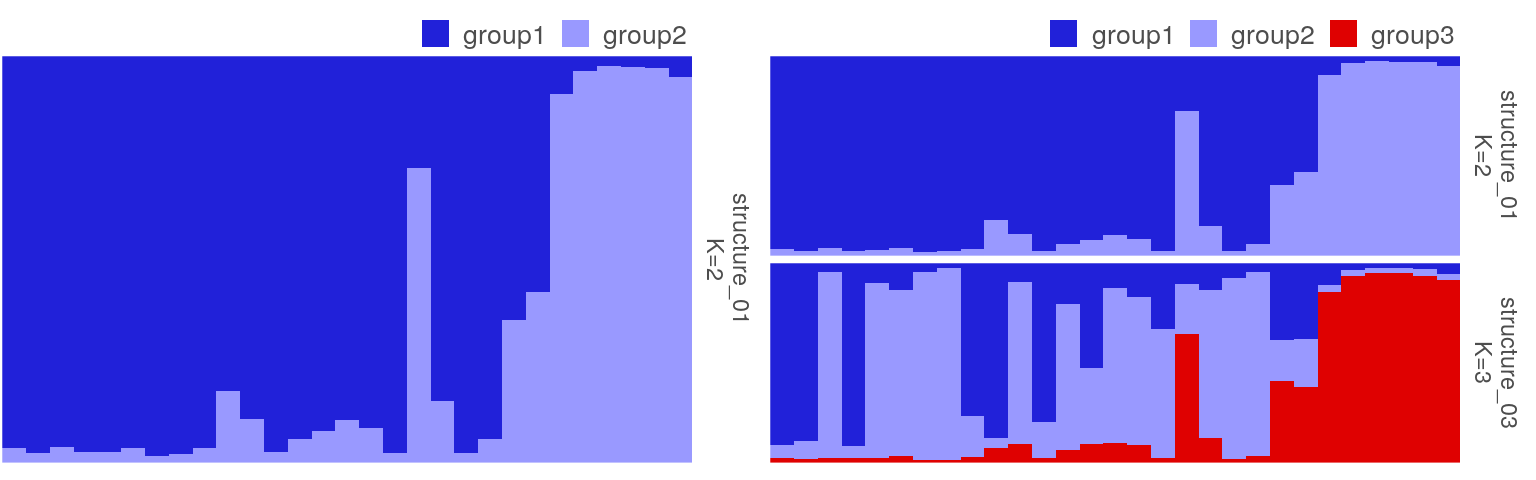
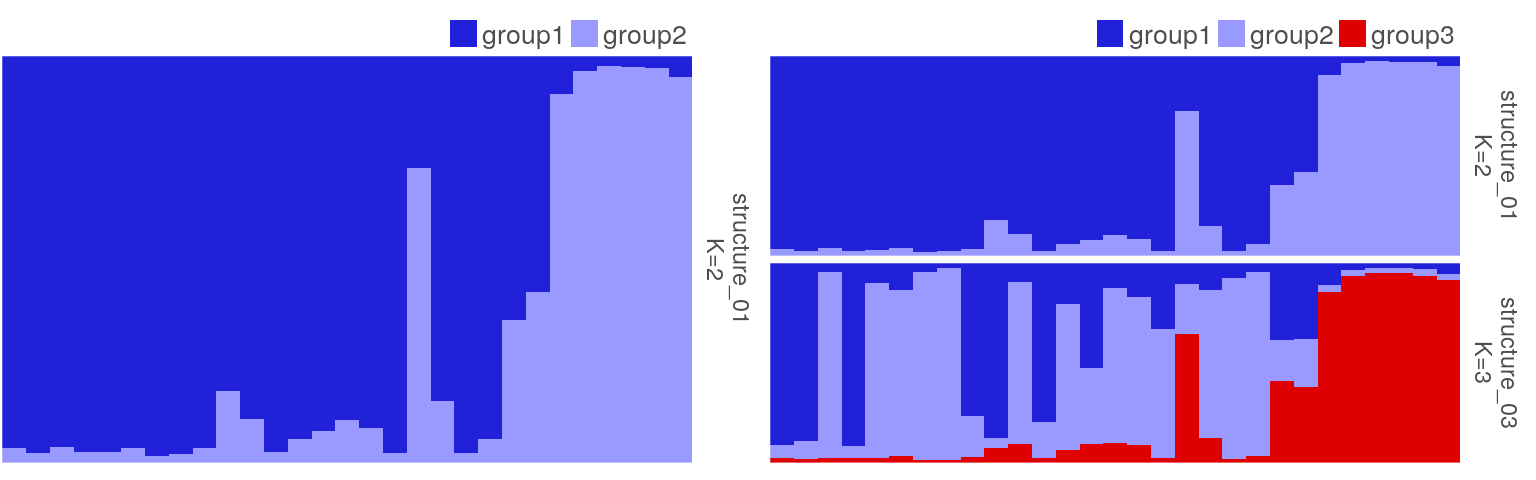
Added legendspacing & legendrow

Changed region(s): [[0.6562, 0.0312, 0.9062, 0.125], [0.25, 0.0312, 0.4062, 0.125]]

diff --git a/reference/plotQ.html b/reference/plotQ.html
@@ -171,14 +171,14 @@
   <span class='kw'>divgrp</span> <span class='kw'>=</span> <span class='fl'>NA</span>, <span class='kw'>divcol</span> <span class='kw'>=</span> <span class='st'>"white"</span>, <span class='kw'>divtype</span> <span class='kw'>=</span> <span class='st'>"21"</span>, <span class='kw'>divsize</span> <span class='kw'>=</span> <span class='fl'>0.25</span>,
   <span class='kw'>divalpha</span> <span class='kw'>=</span> <span class='fl'>1</span>, <span class='kw'>showlegend</span> <span class='kw'>=</span> <span class='fl'>FALSE</span>, <span class='kw'>legendlab</span> <span class='kw'>=</span> <span class='fl'>NA</span>,
   <span class='kw'>legendpos</span> <span class='kw'>=</span> <span class='st'>"right"</span>, <span class='kw'>legendkeysize</span> <span class='kw'>=</span> <span class='fl'>4</span>, <span class='kw'>legendtextsize</span> <span class='kw'>=</span> <span class='fl'>3</span>,
-  <span class='kw'>legendmargin</span> <span class='kw'>=</span> <span class='fu'><a href='https://www.rdocumentation.org/packages/base/topics/c'>c</a></span>(<span class='fl'>0.5</span>, <span class='fl'>0.5</span>, <span class='fl'>0.5</span>, <span class='fl'>0</span>), <span class='kw'>barsize</span> <span class='kw'>=</span> <span class='fl'>1</span>, <span class='kw'>barbordersize</span> <span class='kw'>=</span> <span class='fl'>0</span>,
-  <span class='kw'>barbordercolour</span> <span class='kw'>=</span> <span class='fl'>NA</span>, <span class='kw'>showyaxis</span> <span class='kw'>=</span> <span class='fl'>FALSE</span>, <span class='kw'>showticks</span> <span class='kw'>=</span> <span class='fl'>FALSE</span>,
-  <span class='kw'>ticksize</span> <span class='kw'>=</span> <span class='fl'>0.1</span>, <span class='kw'>ticklength</span> <span class='kw'>=</span> <span class='fl'>0.03</span>, <span class='kw'>outputfilename</span> <span class='kw'>=</span> <span class='fl'>NA</span>,
-  <span class='kw'>imgtype</span> <span class='kw'>=</span> <span class='st'>"png"</span>, <span class='kw'>height</span> <span class='kw'>=</span> <span class='fl'>NA</span>, <span class='kw'>width</span> <span class='kw'>=</span> <span class='fl'>NA</span>, <span class='kw'>dpi</span> <span class='kw'>=</span> <span class='fl'>300</span>,
-  <span class='kw'>units</span> <span class='kw'>=</span> <span class='st'>"cm"</span>, <span class='kw'>theme</span> <span class='kw'>=</span> <span class='st'>"theme_grey"</span>, <span class='kw'>basesize</span> <span class='kw'>=</span> <span class='fl'>5</span>, <span class='kw'>font</span> <span class='kw'>=</span> <span class='st'>""</span>,
-  <span class='kw'>na.rm</span> <span class='kw'>=</span> <span class='fl'>TRUE</span>, <span class='kw'>quiet</span> <span class='kw'>=</span> <span class='fl'>FALSE</span>, <span class='kw'>panelratio</span> <span class='kw'>=</span> <span class='fu'><a href='https://www.rdocumentation.org/packages/base/topics/c'>c</a></span>(<span class='fl'>3</span>, <span class='fl'>1</span>),
-  <span class='kw'>exportplot</span> <span class='kw'>=</span> <span class='fl'>TRUE</span>, <span class='kw'>returnplot</span> <span class='kw'>=</span> <span class='fl'>FALSE</span>, <span class='kw'>returndata</span> <span class='kw'>=</span> <span class='fl'>FALSE</span>,
-  <span class='kw'>exportpath</span> <span class='kw'>=</span> <span class='kw'>NULL</span>)</pre>
+  <span class='kw'>legendspacing</span> <span class='kw'>=</span> <span class='fl'>2</span>, <span class='kw'>legendrow</span> <span class='kw'>=</span> <span class='kw'>NULL</span>, <span class='kw'>legendmargin</span> <span class='kw'>=</span> <span class='fu'><a href='https://www.rdocumentation.org/packages/base/topics/c'>c</a></span>(<span class='fl'>0.5</span>, <span class='fl'>0.5</span>,
+  <span class='fl'>0.5</span>, <span class='fl'>0</span>), <span class='kw'>barsize</span> <span class='kw'>=</span> <span class='fl'>1</span>, <span class='kw'>barbordersize</span> <span class='kw'>=</span> <span class='fl'>0</span>, <span class='kw'>barbordercolour</span> <span class='kw'>=</span> <span class='fl'>NA</span>,
+  <span class='kw'>showyaxis</span> <span class='kw'>=</span> <span class='fl'>FALSE</span>, <span class='kw'>showticks</span> <span class='kw'>=</span> <span class='fl'>FALSE</span>, <span class='kw'>ticksize</span> <span class='kw'>=</span> <span class='fl'>0.1</span>,
+  <span class='kw'>ticklength</span> <span class='kw'>=</span> <span class='fl'>0.03</span>, <span class='kw'>outputfilename</span> <span class='kw'>=</span> <span class='fl'>NA</span>, <span class='kw'>imgtype</span> <span class='kw'>=</span> <span class='st'>"png"</span>,
+  <span class='kw'>height</span> <span class='kw'>=</span> <span class='fl'>NA</span>, <span class='kw'>width</span> <span class='kw'>=</span> <span class='fl'>NA</span>, <span class='kw'>dpi</span> <span class='kw'>=</span> <span class='fl'>300</span>, <span class='kw'>units</span> <span class='kw'>=</span> <span class='st'>"cm"</span>,
+  <span class='kw'>theme</span> <span class='kw'>=</span> <span class='st'>"theme_grey"</span>, <span class='kw'>basesize</span> <span class='kw'>=</span> <span class='fl'>5</span>, <span class='kw'>font</span> <span class='kw'>=</span> <span class='st'>""</span>, <span class='kw'>na.rm</span> <span class='kw'>=</span> <span class='fl'>TRUE</span>,
+  <span class='kw'>quiet</span> <span class='kw'>=</span> <span class='fl'>FALSE</span>, <span class='kw'>panelratio</span> <span class='kw'>=</span> <span class='fu'><a href='https://www.rdocumentation.org/packages/base/topics/c'>c</a></span>(<span class='fl'>3</span>, <span class='fl'>1</span>), <span class='kw'>exportplot</span> <span class='kw'>=</span> <span class='fl'>TRUE</span>,
+  <span class='kw'>returnplot</span> <span class='kw'>=</span> <span class='fl'>FALSE</span>, <span class='kw'>returndata</span> <span class='kw'>=</span> <span class='fl'>FALSE</span>, <span class='kw'>exportpath</span> <span class='kw'>=</span> <span class='kw'>NULL</span>)</pre>
     
     <h2 class="hasAnchor" id="arguments"><a class="anchor" href="#arguments"></a>Arguments</h2>
     <table class="ref-arguments">
@@ -600,6 +600,14 @@ to 4.</p></td>
 to 3.</p></td>
     </tr>
     <tr>
+      <th>legendspacing</th>
+      <td><p>Spacing between legend items.</p></td>
+    </tr>
+    <tr>
+      <th>legendrow</th>
+      <td><p>Number of rows of legend.</p></td>
+    </tr>
+    <tr>
       <th>legendmargin</th>
       <td><p>A numeric vector of length 4 indicating top, right, 
 bottom and left margins of the legend.</p></td>
@@ -842,26 +850,26 @@ order in which the group labels were provided.</p>
 <span class='fu'>plotQ</span>(<span class='kw'>qlist</span><span class='kw'>=</span><span class='no'>slist</span>[<span class='fl'>1</span>:<span class='fl'>2</span>])</div><div class='output co'>#&gt; Drawing plot ...</div><div class='output co'>#&gt; structure_01.png exported.
 #&gt; Drawing plot ...</div><div class='output co'>#&gt; structure_02.png exported.</div><div class='input'>
 <span class='co'># plot a joined figure with multiple plots</span>
-<span class='fu'>plotQ</span>(<span class='kw'>qlist</span><span class='kw'>=</span><span class='no'>slist</span>[<span class='fl'>1</span>:<span class='fl'>2</span>],<span class='kw'>imgoutput</span><span class='kw'>=</span><span class='st'>"join"</span>)</div><div class='output co'>#&gt; Drawing plot ...</div><div class='output co'>#&gt; Joined2Files-20190811024347.png exported.</div><div class='input'>
+<span class='fu'>plotQ</span>(<span class='kw'>qlist</span><span class='kw'>=</span><span class='no'>slist</span>[<span class='fl'>1</span>:<span class='fl'>2</span>],<span class='kw'>imgoutput</span><span class='kw'>=</span><span class='st'>"join"</span>)</div><div class='output co'>#&gt; Drawing plot ...</div><div class='output co'>#&gt; Joined2Files-20190814222445.png exported.</div><div class='input'>
 <span class='co'># sort individuals</span>
 <span class='fu'>plotQ</span>(<span class='kw'>qlist</span><span class='kw'>=</span><span class='no'>slist</span>[<span class='fu'><a href='https://www.rdocumentation.org/packages/base/topics/c'>c</a></span>(<span class='fl'>1</span>,<span class='fl'>3</span>)],<span class='kw'>sortind</span><span class='kw'>=</span><span class='st'>"all"</span>)</div><div class='output co'>#&gt; Drawing plot ...</div><div class='output co'>#&gt; structure_01.png exported.
 #&gt; Drawing plot ...</div><div class='output co'>#&gt; structure_03.png exported.</div><div class='input'><span class='fu'>plotQ</span>(<span class='kw'>qlist</span><span class='kw'>=</span><span class='no'>slist</span>[<span class='fu'><a href='https://www.rdocumentation.org/packages/base/topics/c'>c</a></span>(<span class='fl'>1</span>,<span class='fl'>3</span>)],<span class='kw'>sortind</span><span class='kw'>=</span><span class='st'>"Cluster1"</span>)</div><div class='output co'>#&gt; Drawing plot ...</div><div class='output co'>#&gt; structure_01.png exported.
 #&gt; Drawing plot ...</div><div class='output co'>#&gt; structure_03.png exported.</div><div class='input'><span class='fu'>plotQ</span>(<span class='kw'>qlist</span><span class='kw'>=</span><span class='no'>slist</span>[<span class='fu'><a href='https://www.rdocumentation.org/packages/base/topics/c'>c</a></span>(<span class='fl'>1</span>,<span class='fl'>3</span>)],<span class='kw'>sortind</span><span class='kw'>=</span><span class='st'>"label"</span>)</div><div class='output co'>#&gt; Drawing plot ...</div><div class='output co'>#&gt; structure_01.png exported.
-#&gt; Drawing plot ...</div><div class='output co'>#&gt; structure_03.png exported.</div><div class='input'><span class='fu'>plotQ</span>(<span class='kw'>qlist</span><span class='kw'>=</span><span class='no'>slist</span>[<span class='fu'><a href='https://www.rdocumentation.org/packages/base/topics/c'>c</a></span>(<span class='fl'>1</span>,<span class='fl'>3</span>)],<span class='kw'>sortind</span><span class='kw'>=</span><span class='st'>"all"</span>,<span class='kw'>imgoutput</span><span class='kw'>=</span><span class='st'>"join"</span>,<span class='kw'>sharedindlab</span><span class='kw'>=</span><span class='fl'>FALSE</span>)</div><div class='output co'>#&gt; Drawing plot ...</div><div class='output co'>#&gt; Joined2Files-20190811024348.png exported.</div><div class='input'>
+#&gt; Drawing plot ...</div><div class='output co'>#&gt; structure_03.png exported.</div><div class='input'><span class='fu'>plotQ</span>(<span class='kw'>qlist</span><span class='kw'>=</span><span class='no'>slist</span>[<span class='fu'><a href='https://www.rdocumentation.org/packages/base/topics/c'>c</a></span>(<span class='fl'>1</span>,<span class='fl'>3</span>)],<span class='kw'>sortind</span><span class='kw'>=</span><span class='st'>"all"</span>,<span class='kw'>imgoutput</span><span class='kw'>=</span><span class='st'>"join"</span>,<span class='kw'>sharedindlab</span><span class='kw'>=</span><span class='fl'>FALSE</span>)</div><div class='output co'>#&gt; Drawing plot ...</div><div class='output co'>#&gt; Joined2Files-20190814222446.png exported.</div><div class='input'>
 <span class='co'># read group labels</span>
 <span class='no'>md</span> <span class='kw'>&lt;-</span> <span class='fu'><a href='https://www.rdocumentation.org/packages/utils/topics/read.table'>read.delim</a></span>(<span class='fu'><a href='https://www.rdocumentation.org/packages/base/topics/system.file'>system.file</a></span>(<span class='st'>"files/metadata.txt"</span>, <span class='kw'>package</span><span class='kw'>=</span><span class='st'>"pophelper"</span>),
 <span class='kw'>header</span><span class='kw'>=</span><span class='fl'>TRUE</span>,<span class='kw'>stringsAsFactors</span><span class='kw'>=</span><span class='fl'>FALSE</span>)
 
 <span class='co'># plot with one group label set</span>
-<span class='fu'>plotQ</span>(<span class='kw'>qlist</span><span class='kw'>=</span><span class='no'>slist</span>[<span class='fl'>1</span>],<span class='kw'>grplab</span><span class='kw'>=</span><span class='no'>md</span>[,<span class='fl'>2</span>,<span class='kw'>drop</span><span class='kw'>=</span><span class='fl'>FALSE</span>])</div><div class='output co'>#&gt; Drawing plot ...</div><div class='output co'>#&gt; structure_01.png exported.</div><div class='input'><span class='fu'>plotQ</span>(<span class='kw'>qlist</span><span class='kw'>=</span><span class='no'>slist</span>[<span class='fl'>1</span>:<span class='fl'>2</span>],<span class='kw'>grplab</span><span class='kw'>=</span><span class='no'>md</span>[,<span class='fl'>2</span>,<span class='kw'>drop</span><span class='kw'>=</span><span class='fl'>FALSE</span>],<span class='kw'>imgoutput</span><span class='kw'>=</span><span class='st'>"join"</span>)</div><div class='output co'>#&gt; Drawing plot ...</div><div class='output co'>#&gt; Joined2Files-20190811024348.png exported.</div><div class='input'>
+<span class='fu'>plotQ</span>(<span class='kw'>qlist</span><span class='kw'>=</span><span class='no'>slist</span>[<span class='fl'>1</span>],<span class='kw'>grplab</span><span class='kw'>=</span><span class='no'>md</span>[,<span class='fl'>2</span>,<span class='kw'>drop</span><span class='kw'>=</span><span class='fl'>FALSE</span>])</div><div class='output co'>#&gt; Drawing plot ...</div><div class='output co'>#&gt; structure_01.png exported.</div><div class='input'><span class='fu'>plotQ</span>(<span class='kw'>qlist</span><span class='kw'>=</span><span class='no'>slist</span>[<span class='fl'>1</span>:<span class='fl'>2</span>],<span class='kw'>grplab</span><span class='kw'>=</span><span class='no'>md</span>[,<span class='fl'>2</span>,<span class='kw'>drop</span><span class='kw'>=</span><span class='fl'>FALSE</span>],<span class='kw'>imgoutput</span><span class='kw'>=</span><span class='st'>"join"</span>)</div><div class='output co'>#&gt; Drawing plot ...</div><div class='output co'>#&gt; Joined2Files-20190814222447.png exported.</div><div class='input'>
 <span class='co'># sort within groups</span>
 <span class='fu'>plotQ</span>(<span class='kw'>qlist</span><span class='kw'>=</span><span class='no'>slist</span>[<span class='fl'>1</span>:<span class='fl'>2</span>],<span class='kw'>grplab</span><span class='kw'>=</span><span class='no'>md</span>[,<span class='fl'>2</span>,<span class='kw'>drop</span><span class='kw'>=</span><span class='fl'>FALSE</span>],<span class='kw'>imgoutput</span><span class='kw'>=</span><span class='st'>"join"</span>,<span class='kw'>sortind</span><span class='kw'>=</span><span class='st'>"all"</span>,
-<span class='kw'>sharedindlab</span><span class='kw'>=</span><span class='fl'>FALSE</span>)</div><div class='output co'>#&gt; Drawing plot ...</div><div class='output co'>#&gt; Joined2Files-20190811024348.png exported.</div><div class='input'><span class='fu'>plotQ</span>(<span class='kw'>qlist</span><span class='kw'>=</span><span class='no'>slist</span>[<span class='fl'>1</span>:<span class='fl'>2</span>],<span class='kw'>grplab</span><span class='kw'>=</span><span class='no'>md</span>[,<span class='fl'>2</span>,<span class='kw'>drop</span><span class='kw'>=</span><span class='fl'>FALSE</span>],<span class='kw'>imgoutput</span><span class='kw'>=</span><span class='st'>"join"</span>,
-<span class='kw'>sortind</span><span class='kw'>=</span><span class='st'>"Cluster1"</span>,<span class='kw'>sharedindlab</span><span class='kw'>=</span><span class='fl'>FALSE</span>)</div><div class='output co'>#&gt; Drawing plot ...</div><div class='output co'>#&gt; Joined2Files-20190811024349.png exported.</div><div class='input'><span class='fu'>plotQ</span>(<span class='kw'>qlist</span><span class='kw'>=</span><span class='no'>slist</span>[<span class='fl'>1</span>:<span class='fl'>2</span>],<span class='kw'>grplab</span><span class='kw'>=</span><span class='no'>md</span>[,<span class='fl'>2</span>,<span class='kw'>drop</span><span class='kw'>=</span><span class='fl'>FALSE</span>],<span class='kw'>imgoutput</span><span class='kw'>=</span><span class='st'>"join"</span>,<span class='kw'>sortind</span><span class='kw'>=</span><span class='st'>"label"</span>)</div><div class='output co'>#&gt; Drawing plot ...</div><div class='output co'>#&gt; Joined2Files-20190811024349.png exported.</div><div class='input'>
+<span class='kw'>sharedindlab</span><span class='kw'>=</span><span class='fl'>FALSE</span>)</div><div class='output co'>#&gt; Drawing plot ...</div><div class='output co'>#&gt; Joined2Files-20190814222447.png exported.</div><div class='input'><span class='fu'>plotQ</span>(<span class='kw'>qlist</span><span class='kw'>=</span><span class='no'>slist</span>[<span class='fl'>1</span>:<span class='fl'>2</span>],<span class='kw'>grplab</span><span class='kw'>=</span><span class='no'>md</span>[,<span class='fl'>2</span>,<span class='kw'>drop</span><span class='kw'>=</span><span class='fl'>FALSE</span>],<span class='kw'>imgoutput</span><span class='kw'>=</span><span class='st'>"join"</span>,
+<span class='kw'>sortind</span><span class='kw'>=</span><span class='st'>"Cluster1"</span>,<span class='kw'>sharedindlab</span><span class='kw'>=</span><span class='fl'>FALSE</span>)</div><div class='output co'>#&gt; Drawing plot ...</div><div class='output co'>#&gt; Joined2Files-20190814222447.png exported.</div><div class='input'><span class='fu'>plotQ</span>(<span class='kw'>qlist</span><span class='kw'>=</span><span class='no'>slist</span>[<span class='fl'>1</span>:<span class='fl'>2</span>],<span class='kw'>grplab</span><span class='kw'>=</span><span class='no'>md</span>[,<span class='fl'>2</span>,<span class='kw'>drop</span><span class='kw'>=</span><span class='fl'>FALSE</span>],<span class='kw'>imgoutput</span><span class='kw'>=</span><span class='st'>"join"</span>,<span class='kw'>sortind</span><span class='kw'>=</span><span class='st'>"label"</span>)</div><div class='output co'>#&gt; Drawing plot ...</div><div class='output co'>#&gt; Joined2Files-20190814222448.png exported.</div><div class='input'>
 <span class='co'># reorder groups</span>
 <span class='fu'>plotQ</span>(<span class='kw'>qlist</span><span class='kw'>=</span><span class='no'>slist</span>[<span class='fl'>1</span>],<span class='kw'>grplab</span><span class='kw'>=</span><span class='no'>md</span>[,<span class='fl'>2</span>,<span class='kw'>drop</span><span class='kw'>=</span><span class='fl'>FALSE</span>],<span class='kw'>subsetgrp</span><span class='kw'>=</span><span class='fu'><a href='https://www.rdocumentation.org/packages/base/topics/c'>c</a></span>(<span class='st'>"CatB"</span>,<span class='st'>"CatA"</span>))</div><div class='output co'>#&gt; Drawing plot ...</div><div class='output co'>#&gt; structure_01.png exported.</div><div class='input'>
 <span class='co'># multiple group label sets and ordergrp</span>
-<span class='fu'>plotQ</span>(<span class='kw'>qlist</span><span class='kw'>=</span><span class='no'>slist</span>[<span class='fl'>1</span>],<span class='kw'>grplab</span><span class='kw'>=</span><span class='no'>md</span>,<span class='kw'>ordergrp</span><span class='kw'>=</span><span class='fl'>TRUE</span>)</div><div class='output co'>#&gt; Drawing plot ...</div><div class='output co'>#&gt; structure_01.png exported.</div><div class='input'><span class='fu'>plotQ</span>(<span class='kw'>qlist</span><span class='kw'>=</span><span class='no'>slist</span>[<span class='fl'>1</span>:<span class='fl'>2</span>],<span class='kw'>grplab</span><span class='kw'>=</span><span class='no'>md</span>,<span class='kw'>ordergrp</span><span class='kw'>=</span><span class='fl'>TRUE</span>,<span class='kw'>imgoutput</span><span class='kw'>=</span><span class='st'>"join"</span>)</div><div class='output co'>#&gt; Drawing plot ...</div><div class='output co'>#&gt; Joined2Files-20190811024350.png exported.</div><div class='input'>
+<span class='fu'>plotQ</span>(<span class='kw'>qlist</span><span class='kw'>=</span><span class='no'>slist</span>[<span class='fl'>1</span>],<span class='kw'>grplab</span><span class='kw'>=</span><span class='no'>md</span>,<span class='kw'>ordergrp</span><span class='kw'>=</span><span class='fl'>TRUE</span>)</div><div class='output co'>#&gt; Drawing plot ...</div><div class='output co'>#&gt; structure_01.png exported.</div><div class='input'><span class='fu'>plotQ</span>(<span class='kw'>qlist</span><span class='kw'>=</span><span class='no'>slist</span>[<span class='fl'>1</span>:<span class='fl'>2</span>],<span class='kw'>grplab</span><span class='kw'>=</span><span class='no'>md</span>,<span class='kw'>ordergrp</span><span class='kw'>=</span><span class='fl'>TRUE</span>,<span class='kw'>imgoutput</span><span class='kw'>=</span><span class='st'>"join"</span>)</div><div class='output co'>#&gt; Drawing plot ...</div><div class='output co'>#&gt; Joined2Files-20190814222449.png exported.</div><div class='input'>
 <span class='co'># sort in second label group set cat</span>
 <span class='fu'>plotQ</span>(<span class='kw'>qlist</span><span class='kw'>=</span><span class='no'>slist</span>[<span class='fl'>1</span>],<span class='kw'>grplab</span><span class='kw'>=</span><span class='no'>md</span>,<span class='kw'>selgrp</span><span class='kw'>=</span><span class='st'>"cat"</span>,<span class='kw'>sortind</span><span class='kw'>=</span><span class='st'>"all"</span>)</div><div class='output co'>#&gt; Drawing plot ...</div><div class='output co'>#&gt; structure_01.png exported.</div><div class='input'>
 <span class='co'># use default individual labels</span>

diff --git a/articles/index.html b/articles/index.html
@@ -108,12 +108,12 @@
 
     
     
-<p><strong>Roy M Francis</strong> | 11-Aug-2019</p>
+<p><strong>Roy M Francis</strong> | 14-Aug-2019</p>
 <div id="introduction" class="section level1">
 <h1 class="hasAnchor">
 <a href="#introduction" class="anchor"></a>Introduction</h1>
 <p>This vignette/tutorial aims to demonstrate the use of R package <code>pophelper</code>. This package contains functions that are useful for processing output results from programs used in the analysis of population structure such as ADMIXTURE<sup>1</sup>, FASTSTRUCTURE<sup>6</sup>, STRUCTURE<sup>5</sup>, TESS<sup>3</sup>, BAPS<sup>8</sup> and any q-matrix output as a numeric tabular delimited file.</p>
-<p>These softwares are popular programs used to discriminate populations, to determine population structure and to reveal the genetic composition of individuals using molecular markers. These programs generally use allelic frequency information to assign individuals to a pre-defined number of populations (<em>K</em>). The assignment is usually run for a range of <em>K</em> such as from <em>K</em>=2 to <em>K</em>=10. Multiple repeats are also usually carried out for each <em>K</em>. Each output file for each repeat of <em>K</em> showing the assignment probabilities of all individuals is referred to as the run file, cluster file or q-matrix file. <code>pophelper</code> has a set of functions that include reading into R, tabulating, summarising and plotting these run files.</p>
+<p>These software are popular programs used to discriminate populations, to determine population structure and to reveal the genetic composition of individuals using molecular markers. These programs generally use allelic frequency information to assign individuals to a pre-defined number of populations (<em>K</em>). The assignment is usually run for a range of <em>K</em> such as from <em>K</em>=2 to <em>K</em>=10. Multiple repeats are also usually carried out for each <em>K</em>. Each output file for each repeat of <em>K</em> showing the assignment probabilities of all individuals is referred to as the run file, cluster file or q-matrix file. <code>pophelper</code> has a set of functions that include reading into R, tabulating, summarising and plotting these run files.</p>
 <p>This vignette covers the use of all important functions in the <code>pophelper</code> package. The demonstration is ordered in the manner of a typical workflow. Input and output codes are printed in a font different from body text like <code>this</code>.</p>
 <hr>
 </div>
@@ -873,7 +873,7 @@ Fig. 11: <em>An overview of the components of a <code><a href="../reference/plot
 <div class="sourceCode" id="cb51"><pre class="sourceCode r"><code class="sourceCode r"><a class="sourceLine" id="cb51-1" data-line-number="1"><span class="co"># modified for this document</span></a>
 <a class="sourceLine" id="cb51-2" data-line-number="2">p1 &lt;-<span class="st"> </span><span class="kw"><a href="../reference/plotQ.html">plotQ</a></span>(slist1[<span class="dv">1</span>],<span class="dt">returnplot=</span>T,<span class="dt">exportplot=</span>F,<span class="dt">quiet=</span>T,<span class="dt">basesize=</span><span class="dv">11</span>,</a>
 <a class="sourceLine" id="cb51-3" data-line-number="3">            <span class="dt">showlegend=</span>T, <span class="dt">legendlab=</span><span class="kw"><a href="https://www.rdocumentation.org/packages/base/topics/c">c</a></span>(<span class="st">"group1"</span>,<span class="st">"group2"</span>),</a>
-<a class="sourceLine" id="cb51-4" data-line-number="4">            <span class="dt">legendkeysize=</span><span class="dv">10</span>,<span class="dt">legendtextsize=</span><span class="dv">10</span>,<span class="dt">legendmargin=</span><span class="kw"><a href="https://www.rdocumentation.org/packages/base/topics/c">c</a></span>(<span class="dv">2</span>,<span class="dv">2</span>,<span class="dv">2</span>,<span class="dv">0</span>))</a>
+<a class="sourceLine" id="cb51-4" data-line-number="4">            <span class="dt">legendkeysize=</span><span class="dv">10</span>,<span class="dt">legendtextsize=</span><span class="dv">10</span>,<span class="dt">legendmargin=</span><span class="kw"><a href="https://www.rdocumentation.org/packages/base/topics/c">c</a></span>(<span class="dv">2</span>,<span class="dv">2</span>,<span class="dv">2</span>,<span class="dv">0</span>),<span class="dt">legendrow=</span><span class="dv">1</span>)</a>
 <a class="sourceLine" id="cb51-5" data-line-number="5"></a>
 <a class="sourceLine" id="cb51-6" data-line-number="6">p2 &lt;-<span class="st"> </span><span class="kw"><a href="../reference/plotQ.html">plotQ</a></span>(slist1[<span class="kw"><a href="https://www.rdocumentation.org/packages/base/topics/c">c</a></span>(<span class="dv">1</span>,<span class="dv">3</span>)],<span class="dt">imgoutput=</span><span class="st">"join"</span>,<span class="dt">returnplot=</span>T,<span class="dt">exportplot=</span>F,<span class="dt">quiet=</span>T,<span class="dt">basesize=</span><span class="dv">11</span>,</a>
 <a class="sourceLine" id="cb51-7" data-line-number="7">            <span class="dt">showlegend=</span>T, <span class="dt">legendlab=</span><span class="kw"><a href="https://www.rdocumentation.org/packages/base/topics/c">c</a></span>(<span class="st">"group1"</span>,<span class="st">"group2"</span>,<span class="st">"group3"</span>),</a>

diff --git a/reference/is.qlist.html b/reference/is.qlist.html
@@ -170,6 +170,11 @@
     <div class='dont-index'><p><code><a href='https://www.rdocumentation.org/packages/base/topics/list'>as.list</a></code></p></div>
     
 
+    <h2 class="hasAnchor" id="examples"><a class="anchor" href="#examples"></a>Examples</h2>
+    <pre class="examples"><div class='input'><span class='no'>sfiles</span> <span class='kw'>&lt;-</span> <span class='fu'><a href='https://www.rdocumentation.org/packages/base/topics/list.files'>list.files</a></span>(<span class='kw'>path</span><span class='kw'>=</span><span class='fu'><a href='https://www.rdocumentation.org/packages/base/topics/system.file'>system.file</a></span>(<span class='st'>"files/structure"</span>,<span class='kw'>package</span><span class='kw'>=</span><span class='st'>"pophelper"</span>),
+<span class='kw'>full.names</span><span class='kw'>=</span><span class='fl'>TRUE</span>)
+<span class='no'>slist</span> <span class='kw'>&lt;-</span> <span class='fu'><a href='readQ.html'>readQ</a></span>(<span class='no'>sfiles</span>)
+<span class='fu'>is.qlist</span>(<span class='no'>slist</span>)</div></pre>
   </div>
   <div class="col-md-3 hidden-xs hidden-sm" id="sidebar">
     <h2>Contents</h2>
@@ -181,7 +186,9 @@
       <li><a href="#details">Details</a></li>
 
       <li><a href="#see-also">See also</a></li>
-          </ul>
+      
+      <li><a href="#examples">Examples</a></li>
+    </ul>
 
   </div>
 </div>

diff --git a/news/index.html b/news/index.html
@@ -142,7 +142,7 @@
 <a href="#pophelper-2-3-0" class="anchor"></a>pophelper 2.3.0</h1>
 <ul>
 <li>11-Aug-2019</li>
-<li>Built on R-3.6.0</li>
+<li>Built on R-3.6.0. Min req R-3.5.0.</li>
 <li>Removed CLUMPP and DISTRUCT executables</li>
 <li>‘useexe’ argument in ClumppExport() deprecated.</li>
 <li>Added alignK() function for label switching within and between K</li>
@@ -154,6 +154,8 @@
 <li>Added function sortQ() to sort runs in a qlist by a run attribute</li>
 <li>Added function mergeQ() to merge replicate runs within K</li>
 <li>Added function splitQ() to split a qlist object by an attribute</li>
+<li>14-Aug-2019</li>
+<li>Added arguments ‘legendspacing’ and ‘legendrow’ to plotQ()</li>
 </ul>
 </div>
     <div id="pophelper-2-2-9" class="section level1">
